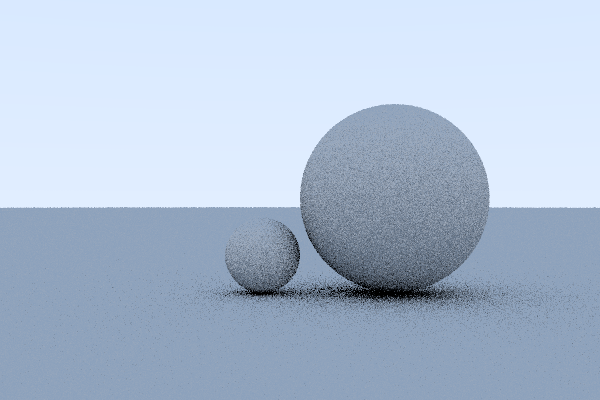
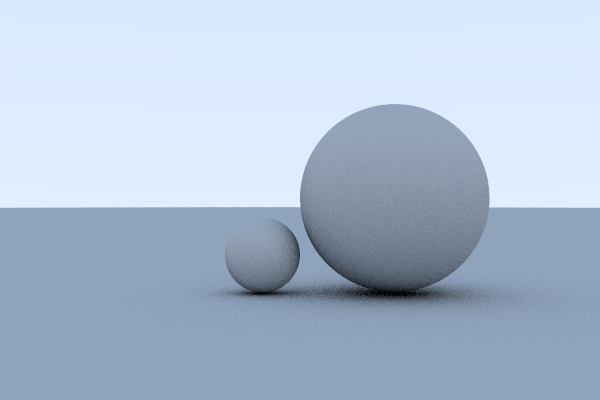
Playing around with materials

diff --git a/src/main.rs b/src/main.rs
@@ -26,15 +26,44 @@ fn linear_to_srgb(val: f32) -> u8 {
 }
 
 #[derive(Debug)]
+struct Scatter {
+    scattered: Ray,
+    attenuation: Vector3,
+}
+
+trait Scatterable {
+    fn scatter(&self, ray_in: &Ray, hit: &Hit) -> Option<Scatter>;
+}
+
+#[derive(Debug, Copy, Clone)]
+struct Lambertian {
+    albedo: Vector3,
+}
+
+impl Scatterable for Lambertian {
+    fn scatter(&self, ray_in: &Ray, hit: &Hit) -> Option<Scatter> {
+        let target = hit.position + hit.normal + random_in_unit_sphere();
+        let scattered = Ray {
+            origin: hit.position + 0.001,
+            direction: target - hit.position,
+        };
+        return Some(Scatter {
+            attenuation: self.albedo,
+            scattered: scattered,
+        });
+    }
+}
+
 struct Hit {
     position: Vector3,
     normal: Vector3,
     t: f32,
+    material: Box<Scatterable + 'static>,
 }
 
-trait Hitable {
-    fn hit(&self, ray: &Ray) -> Hit;
-}
+// trait Hitable {
+//     fn hit(&self, ray: &Ray) -> Hit;
+// }
 
 impl Hit {
     fn new() -> Hit {
@@ -42,6 +71,9 @@ impl Hit {
             position: Vector3::origin(),
             normal: Vector3::origin(),
             t: 0.0,
+            material: Box::new(Lambertian {
+                albedo: Vector3::new(0.5, 0.5, 0.5),
+            }),
         }
     }
 }
@@ -61,15 +93,15 @@ impl Sphere {
     }
 }
 
-impl Hitable for Sphere {
-    fn hit(&self, _ray: &Ray) -> Hit {
-        Hit {
-            position: Vector3::origin(),
-            normal: Vector3::origin(),
-            t: 0.0,
-        }
-    }
-}
+// impl Hitable for Sphere {
+//     fn hit(&self, _ray: &Ray) -> Hit {
+//         Hit {
+//             position: Vector3::origin(),
+//             normal: Vector3::origin(),
+//             t: 0.0,
+//         }
+//     }
+// }
 
 #[derive(Copy, Clone)]
 struct Camera {
@@ -147,6 +179,9 @@ fn ray_sphere_intersection(ray: &Ray, sphere: &Sphere, t_min: f32, t_max: f32) -
                 position: hit_position,
                 normal: hit_normal.normalize(),
                 t: t,
+                material: Box::new(Lambertian {
+                    albedo: Vector3::new(0.5, 0.5, 0.5),
+                }),
             });
         }
 
@@ -158,6 +193,9 @@ fn ray_sphere_intersection(ray: &Ray, sphere: &Sphere, t_min: f32, t_max: f32) -
                 position: hit_position,
                 normal: hit_normal,
                 t: t,
+                material: Box::new(Lambertian {
+                    albedo: Vector3::new(0.5, 0.5, 0.5),
+                }),
             });
         }
     }
@@ -190,12 +228,15 @@ fn trace(ray: &Ray, spheres: &[Sphere], _depth: i32) -> Vector3 {
     let result = intersect_scene(&ray, &spheres, KMIN_T, KMAX_T);
     match result {
         Some(hit) => {
-            let target = hit.position + hit.normal + random_in_unit_sphere();
-            let new_ray = Ray {
-                origin: hit.position + 0.001,
-                direction: target - hit.position,
-            };
-            return trace(&new_ray, &spheres, 1) * 0.5;
+            let scatter = hit.material.scatter(&ray, &hit);
+            match scatter {
+                Some(scattered) => {
+                    return trace(&scattered.scattered, &spheres, 1) * scattered.attenuation;
+                }
+                None => {
+                    return Vector3::origin();
+                }
+            }
         }
         None => {
             let unit_direction = ray.direction.normalize();
@@ -220,7 +261,7 @@ fn main() {
 
     let screen_height = 400;
     let screen_width = 600;
-    let spp = 4;
+    let spp = 64;
 
     let camera = Camera::initialize(
         look_from,

diff --git a/src/math.rs b/src/math.rs
@@ -81,6 +81,17 @@ impl ops::Mul<f32> for Vector3 {
     }
 }
 
+impl ops::Mul for Vector3 {
+    type Output = Vector3;
+
+    fn mul(self, rhs: Vector3) -> Vector3 {
+        Vector3 {
+            x: self.x * rhs.x,
+            y: self.y * rhs.x,
+            z: self.z * rhs.x,
+        }
+    }
+}
 impl ops::Add<f32> for Vector3 {
     type Output = Vector3;
 
